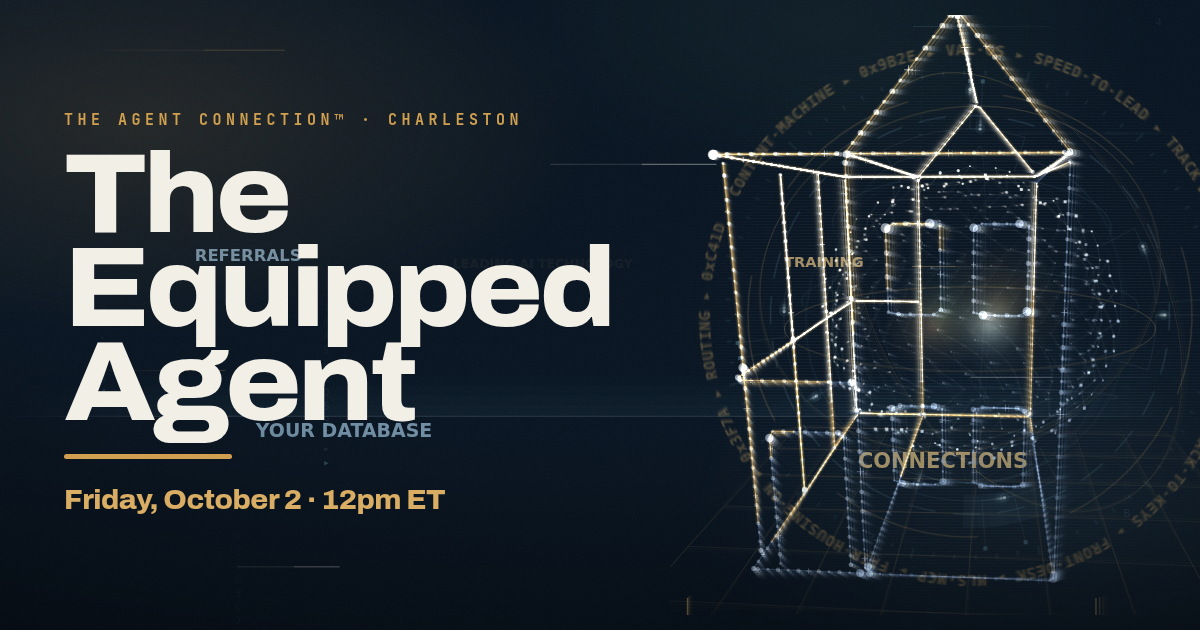
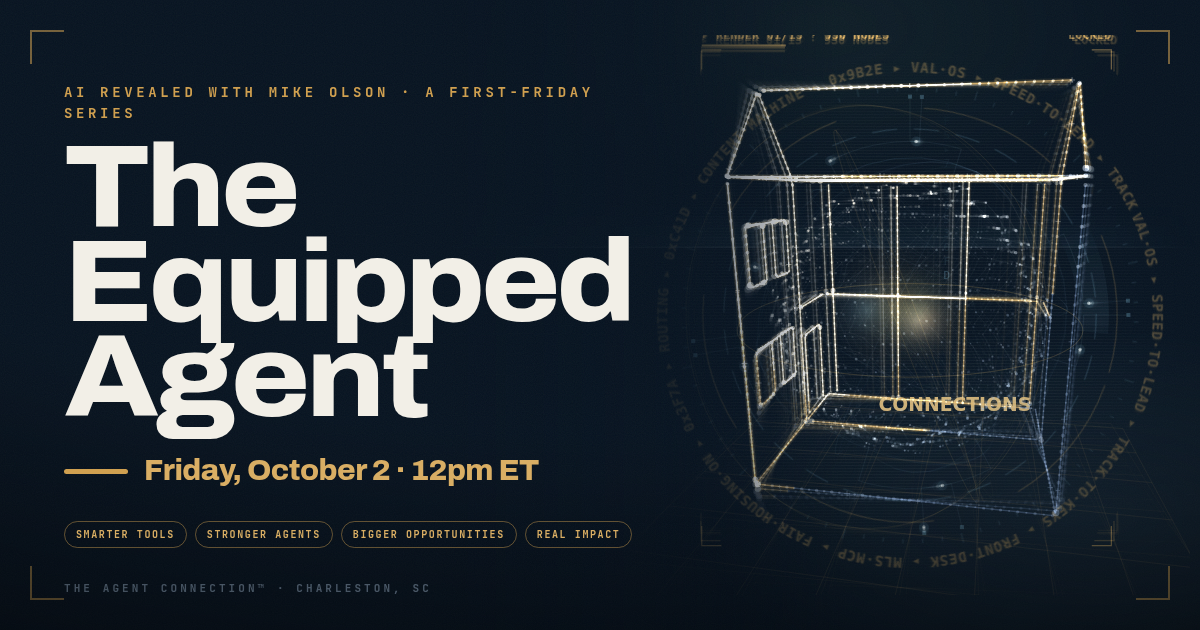
The share card as a poster, and the office address
THE ORB IS PINNED NOW. Left cycling, the card was whatever shape happened to
be mid-flight when the screenshot fired — sometimes a lit Charleston single,
sometimes an unreadable cloud of travelling particles. Pinned to the house it
is the same silhouette every time, which is the whole difference between a
designed poster and a lucky frame.

IT HAS TO READ AT THUMBNAIL SIZE, because most people meet this two inches
wide in a feed. So exactly three things are big enough to survive that — the
silhouette, the wordmark, the date — and everything else is detail for the
people who stop: the series line, the four pillars as mono chips, corner
brackets in the same language the canvas HUD speaks, and the office line along
the bottom. A gradient scrim sits under the type because the orb's own light
was crawling into the wordmark's counters and mushing it small.

Also brought the orb fully inside the frame. Bleeding it off the right edge
cropped the roof and cut the HUD readout in half, and a half-cut line of type
reads as a bug rather than a crop.

THE ADDRESS IS IN: 2000 Sam Rittenberg Blvd, Suite 2020, Charleston. It shows
on the page, in the reveal panel behind the sign-up, and the pre-written
message now asks them to say whether they are coming in person or on Zoom. The
Zoom link is deliberately still not printed anywhere — it does not exist yet,
so the page says it comes back with the confirmation rather than shipping a
[…]

diff --git a/projects/equipped-agent-live/src/app/og-card/page.tsx b/projects/equipped-agent-live/src/app/og-card/page.tsx
@@ -1,21 +1,31 @@
 import { ValAir } from "@/app/stage/val-air";
 import { ValParticles } from "@/app/stage/val-particles";
-import { eventShort } from "@/lib/event";
+import { EVENT, eventShort } from "@/lib/event";
 
 // THE SHARE CARD, as a real page so it can be rendered and saved as a PNG.
 //
-// Not generated at request time: an OG image that depends on a runtime font
-// fetch is an OG image that eventually shows up blank in somebody's feed, and
-// the feed is the one place you never get a second look. This renders at
-// exactly 1200×630 with the real typeface and the real orb, gets screenshotted
-// into public/og.png, and ships as a file.
+// Not generated at request time: an OG image that depends on fetching a font
+// at request time is an OG image that eventually shows up blank in somebody's
+// feed, and the feed is the one place you never get a second look. This renders
+// at exactly 1200×630 with the real typeface and the real orb, gets
+// screenshotted into public/og.png, and ships as a file. Change the date and
+// re-render it.
 //
-// It is deliberately almost wordless. A name, a date, and a machine doing
-// something nobody can identify at a glance is what stops a thumb; a paragraph
-// is what makes a post look like an ad. The orb is sized in pixels here rather
-// than reusing the page's hero, because the hero is measured in viewport units
-// and a 630px-tall card is not a viewport.
+// Two decisions that matter more than anything else here:
+//
+// THE ORB IS PINNED. Left cycling, the card would be whatever shape happened
+// to be mid-flight when the screenshot fired — sometimes a lit Charleston
+// single, sometimes an unreadable cloud. Pinned to the house it is the same
+// silhouette every time, which is the difference between a designed poster and
+// a lucky frame.
+//
+// IT HAS TO READ AT THUMBNAIL SIZE. Most people will see this two inches wide
+// in a feed, so there are exactly three things big enough to survive that: the
+// silhouette, the wordmark, and the date. Everything else — the series line,
+// the pillars, the corner brackets — is detail for the people who stop.
 export const metadata = { robots: { index: false } };
+
+const PILLARS = ["Smarter tools", "Stronger agents", "Bigger opportunities", "Real impact"];
 
 export default function OgCard() {
   return (
@@ -25,29 +35,65 @@ export default function OgCard() {
     >
       <ValAir className="air-mask pointer-events-none absolute inset-0 -z-10" />
 
-      {/* The orb: a square that fits the card's height, sitting off the right
-          edge so it reads as bigger than the frame. */}
-      <div className="absolute -right-[70px] top-1/2 h-[600px] w-[600px] -translate-y-1/2">
-        <ValParticles className="absolute inset-0" />
+      {/* The orb sits fully inside the frame. It was bleeding off the right
+          edge, which cropped the roof and cut the HUD readout in half — and a
+          half-cut line of type reads as a bug rather than a crop. */}
+      <div className="absolute right-[10px] top-1/2 h-[560px] w-[560px] -translate-y-1/2">
+        <ValParticles pin="house" className="absolute inset-0" />
         <div className="holo-scan pointer-events-none absolute inset-0" aria-hidden />
       </div>
 
-      <div className="relative z-10 w-[620px] pl-[64px]">
-        <p className="label text-[15px] tracking-[0.3em] text-gold">
-          The AGENT Connection™ · Charleston
-        </p>
-        <h1 className="mt-4 display text-[112px] font-extrabold leading-[0.84] text-cream [font-variation-settings:'wdth'_112] [letter-spacing:-0.042em]">
+      {/* A gradient scrim under the type: the orb's own light would otherwise
+          crawl into the wordmark's counters and mush it at small sizes. */}
+      <div
+        className="absolute inset-y-0 left-0 w-[70%]"
+        style={{ background: "linear-gradient(90deg, #071320 52%, rgba(7,19,32,0.82) 78%, transparent 100%)" }}
+        aria-hidden
+      />
+
+      {/* Corner brackets — the same language the HUD on the canvas speaks. */}
+      {[
+        "left-[30px] top-[30px] border-l-2 border-t-2",
+        "right-[30px] top-[30px] border-r-2 border-t-2",
+        "left-[30px] bottom-[30px] border-l-2 border-b-2",
+        "right-[30px] bottom-[30px] border-r-2 border-b-2",
+      ].map((cls) => (
+        <span key={cls} className={`absolute h-[34px] w-[34px] border-gold/55 ${cls}`} aria-hidden />
+      ))}
+
+      <div className="relative z-10 w-[660px] pl-[64px]">
+        <p className="label text-[14px] tracking-[0.26em] text-gold">{EVENT.series}</p>
+
+        <h1 className="mt-4 display text-[116px] font-extrabold leading-[0.82] text-cream [font-variation-settings:'wdth'_114] [letter-spacing:-0.045em]">
           The
           <br />
           Equipped
           <br />
           Agent
         </h1>
-        <span className="mt-6 block h-[5px] w-[168px] rounded-full bg-gold" />
-        <p className="mt-5 display whitespace-nowrap text-[28px] font-extrabold tracking-tight text-gold-bright">
-          {eventShort()}
-        </p>
+
+        <div className="mt-6 flex items-center gap-4">
+          <span className="block h-[5px] w-[64px] rounded-full bg-gold" />
+          <p className="display whitespace-nowrap text-[29px] font-extrabold tracking-tight text-gold-bright">
+            {eventShort()}
+          </p>
+        </div>
+
+        <div className="mt-7 flex flex-wrap gap-x-2 gap-y-2">
+          {PILLARS.map((p) => (
+            <span
+              key={p}
+              className="label rounded-full border border-gold/45 px-[11px] py-[5px] text-[10px] tracking-[0.16em] text-gold-bright"
+            >
+              {p}
+            </span>
+          ))}
+        </div>
       </div>
+
+      <p className="label absolute bottom-[34px] left-[64px] text-[11px] tracking-[0.28em] text-faint">
+        The AGENT Connection™ · Charleston, SC
+      </p>
     </div>
   );
 }

diff --git a/projects/equipped-agent-live/src/lib/event.ts b/projects/equipped-agent-live/src/lib/event.ts
@@ -20,10 +20,11 @@ export const EVENT = {
   time: "12:00pm noon ET",
   /** One hour, and it starts on time. */
   duration: "one hour",
-  /** Street address — set it and the page shows it everywhere. */
-  place: "",
-  /** The flyer offers both. No Meet link yet, so the page does not print one. */
-  online: "in person, or on Google Meet",
+  /** Street address — shown on the page, in the reveal, and in the message. */
+  place: "2000 Sam Rittenberg Blvd, Suite 2020 · Charleston, SC",
+  /** Both are offered. The Zoom link is not minted yet, so the page says it
+   *  comes with the confirmation rather than printing a link that 404s. */
+  online: "in person, or on Zoom",
   /** The official reservation page from the flyer's QR code. */
   rsvpUrl: "https://theagentconnection.com/#rsvp",
 } as const;

diff --git a/projects/equipped-agent-live/src/app/live/rsvp.tsx b/projects/equipped-agent-live/src/app/live/rsvp.tsx
@@ -110,8 +110,8 @@ export function Rsvp() {
               )}
               {EVENT.online && (
                 <dd className="mt-1.5 text-[15px] text-soft">
-                  You can come {EVENT.online} — say which in your reply and the link or the
-                  address comes back to you.
+                  You can come {EVENT.online} — say which in your reply. The Zoom link comes
+                  back with your confirmation.
                 </dd>
               )}
             </div>

diff --git a/projects/equipped-agent-live/src/lib/signup.ts b/projects/equipped-agent-live/src/lib/signup.ts
@@ -19,7 +19,7 @@ export function rsvpMailto(opts: { name?: string; cell?: string; when: string })
     opts.name ? `Name: ${opts.name}` : `Name:`,
     opts.cell ? `Cell: ${opts.cell}` : `Cell:`,
     ``,
-    `Send me the address and anything I should have installed before I get there.`,
+    `Coming: [ in person / on Zoom ] — whichever, send me anything I should have installed first.`,
     ``,
     `— from theequippedagent`,
   ];
